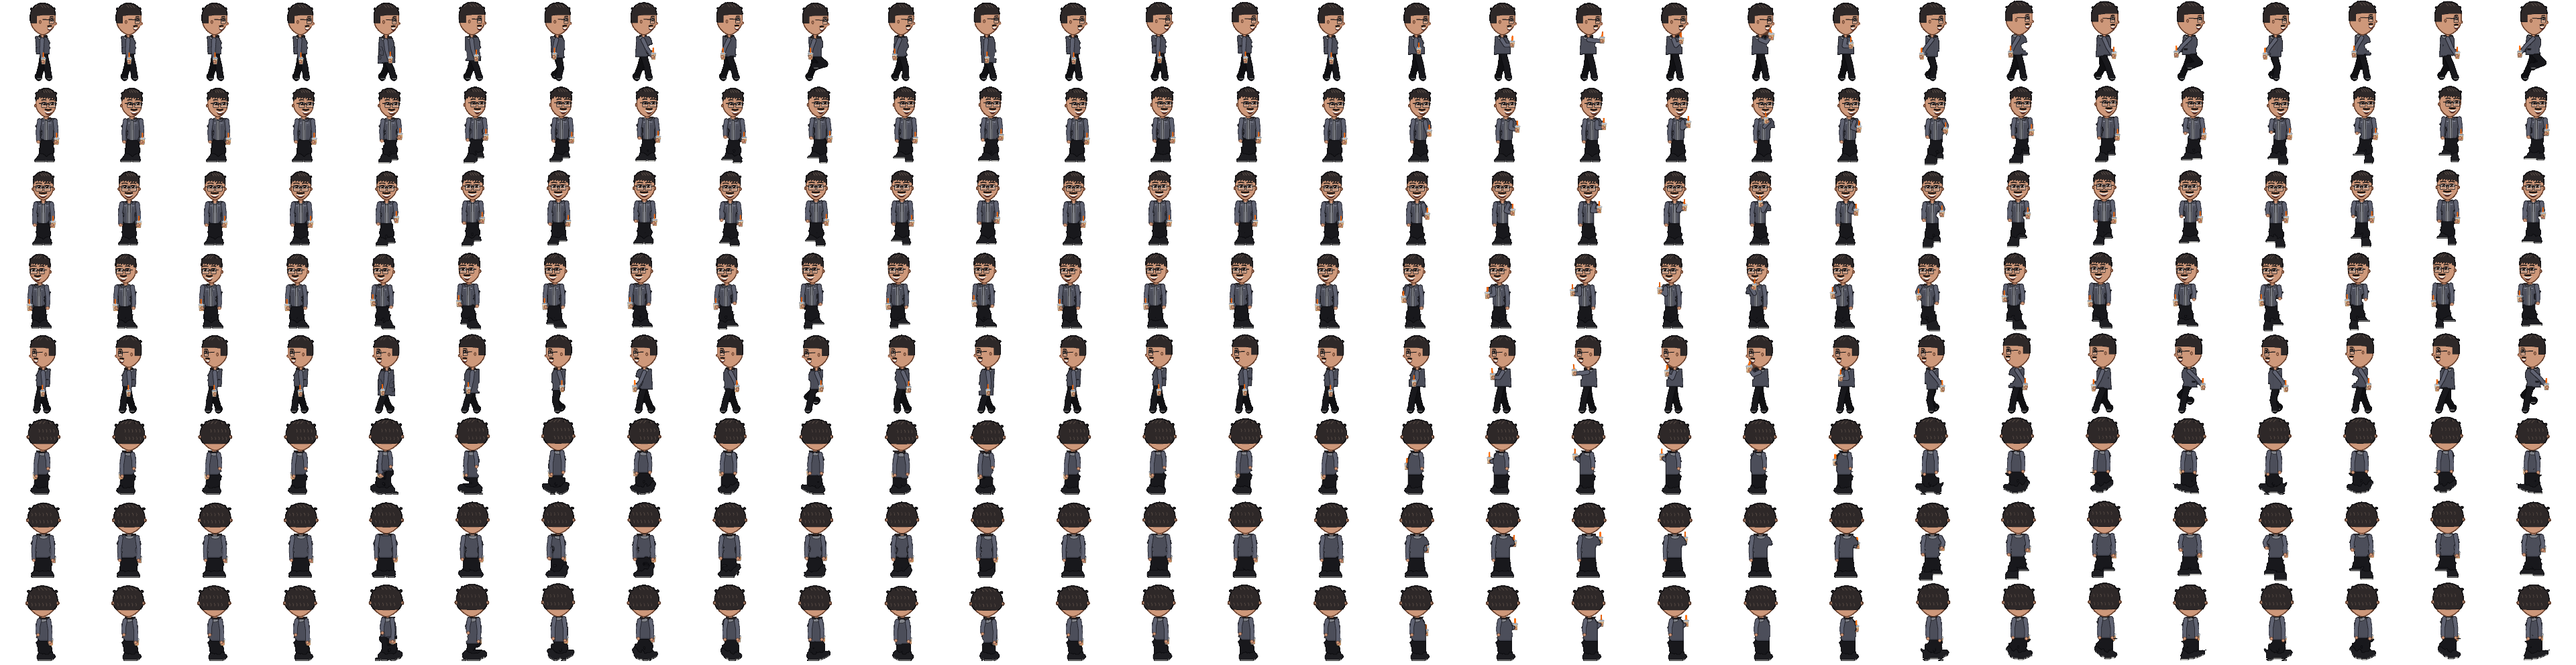
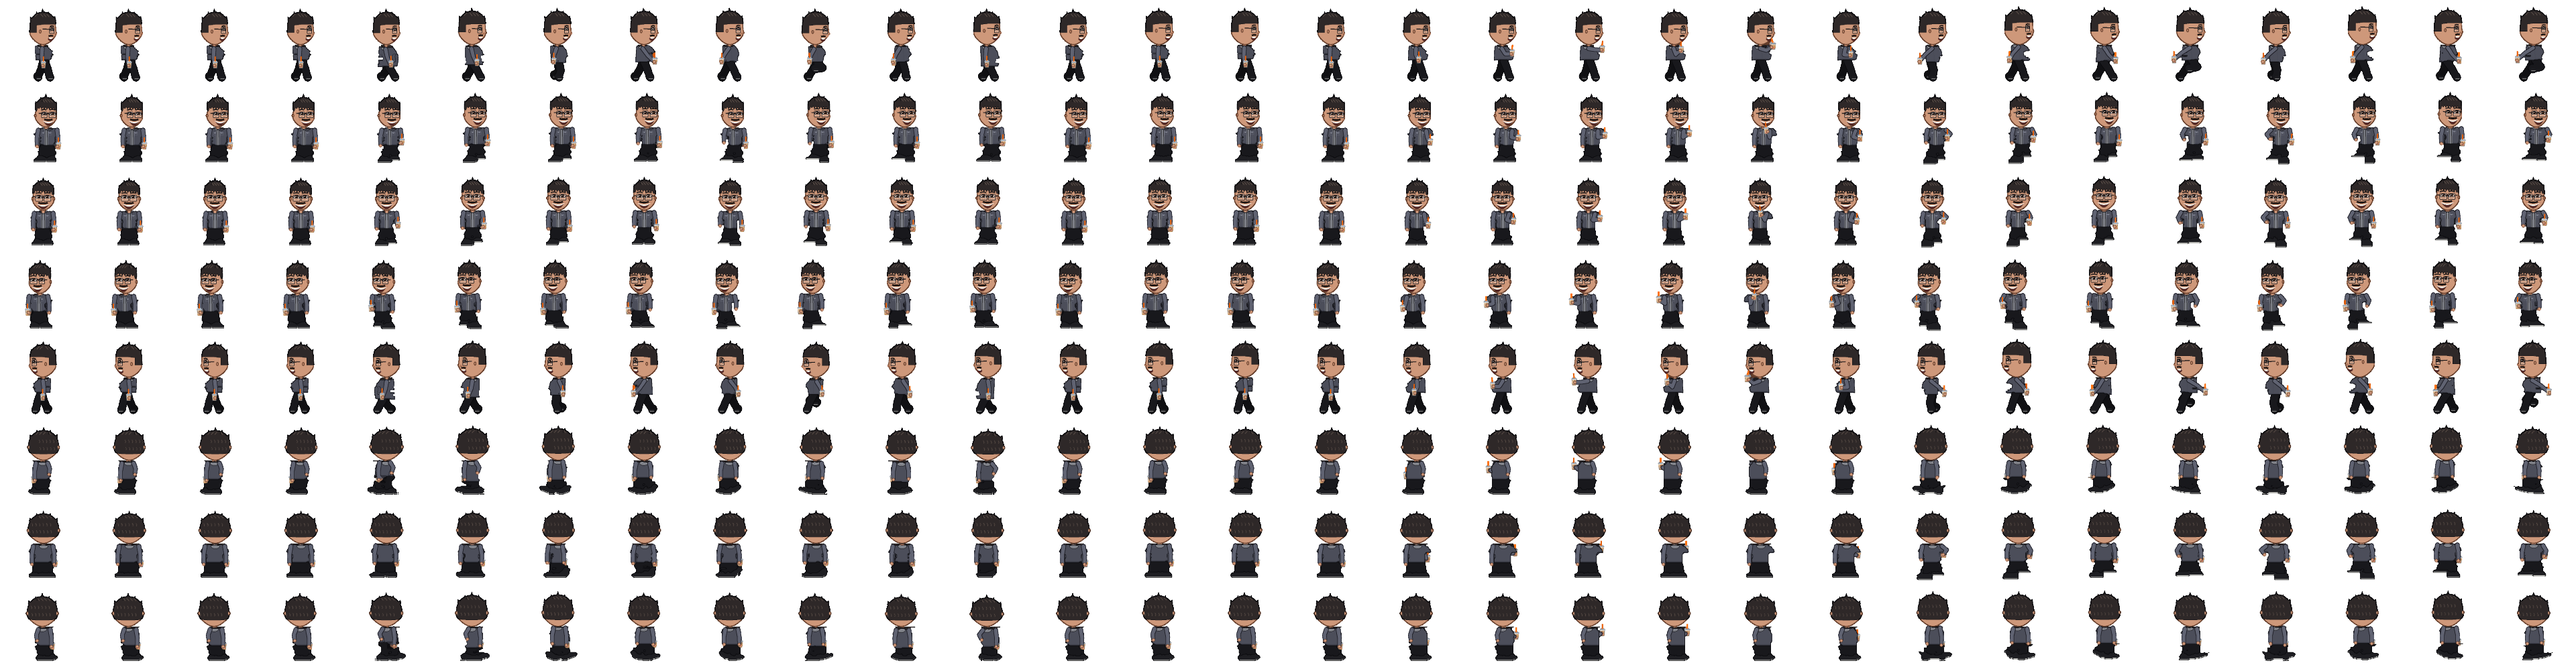
Billy: chibi proportions (head ~0.48 of height), chubby body, big smile, spiky hair; head-ratio check replaces taller-than-James

diff --git a/phaser-tag-client/tools/make_billy_skin.py b/phaser-tag-client/tools/make_billy_skin.py
@@ -47,16 +47,16 @@ ASSETS = HERE.parent / "public" / "assets"
 
 SS = 4
 OW, OH = 128, 124          # output frame
-HEAD_SCALE = 1.45
+HEAD_SCALE = 1.50
 ARM_R = 3.5
-BACK_D = 12.0
+BACK_D = 12.5
 TORSO_D = 15.0
 OBASE = 118                # feet line in the output frame
 SRC_BASE = 96              # feet line in kid.png
 SRC_CX = 40
 HS = 0.82                  # head scale
-BSY = 1.42                 # body: taller ...
-BSX = 1.2                  # ... and stocky
+BSY = 1.10                 # body: taller ...
+BSX = 1.4                  # ... and stocky
 
 FRONT = {"SE": 1, "S": 0, "SW": -1}
 PROFILE = {"E": 1, "W": -1}
@@ -319,6 +319,22 @@ def render_body(lab, wp, back_fx=0):
                     seg = ~union[y, sl] | (L[y, sl] == JACKET)
                     L[y, sl][seg] = JACKET
                     union[y, sl] = True
+            # chubby: a soft rounded belly out front, lower half of the jacket
+            Jf = L == JACKET
+            for y in range(y0, y1):
+                tt = (y - y0) / max(1, (y1 - y0))
+                bul = 2.6 * SS * max(0.0, math.sin(math.pi * min(1.0, max(0.0, (tt - 0.2) / 0.85))))
+                if bul < 1 or not Jf[y].any():
+                    continue
+                jx_ = xs_[Jf[y]]
+                f_ = jx_.max() if back_fx > 0 else jx_.min()
+                if back_fx > 0:
+                    sl = slice(f_ + 1, int(f_ + 1 + bul))
+                else:
+                    sl = slice(max(0, int(f_ - bul)), f_)
+                seg = ~union[y, sl]
+                L[y, sl][seg] = JACKET
+                union[y, sl] = True
             cps = components8(union)
             if cps:
                 big_ = max(cps, key=lambda c_: c_.sum())
@@ -385,7 +401,9 @@ def rebuild_head(L, rgb, union, direction, wp, eyes_o):
     fx = FACE[direction][0]
     # jaw a touch narrower than the cranium
     t = np.clip((Yo - cy) / hh, 0, 1)
-    Xs = cx + (Xo - cx) / (1 - 0.3 * t * t)
+    # chubby cheeks: barely narrower jaw plus a soft bulge at cheek height
+    bulge = np.exp(-(((Yo - (cy + 0.38 * hh)) / (0.32 * hh)) ** 2))
+    Xs = cx + (Xo - cx) / ((1 - 0.16 * t * t) * (1 + 0.07 * bulge))
     sdf = _rbox_sdf(Xs, Yo, cx, cy, hw, hh, hw * 0.96)
     head = sdf < 0
     # erase the old head
@@ -410,7 +428,7 @@ def rebuild_head(L, rgb, union, direction, wp, eyes_o):
     else:
         ey = np.mean([e[1] for e in eyes_o]) if eyes_o else top + 0.55 * (bot - top)
         ph_ = ((Xo - cx + 0.6 * fx) / 2.6) % 1
-        hl = ey - 8.3 + 0.8 * np.clip((Xo - (cx - 0.3 * hw)) / hw, -1, 1) + 1.8 * (1 - ph_) ** 1.6
+        hl = ey - 8.3 + 0.8 * np.clip((Xo - (cx - 0.3 * hw)) / hw, -1, 1) + 2.4 * (1 - np.abs(2 * ph_ - 1))
         edge = np.clip((np.abs(Xo - (cx + fx * 0.8)) / hw - 0.74) / 0.26, 0, 1)
         hair = hair_cap & (Yo < hl + 3.4 * edge)
         ears = [(cx - hw - 0.1, ey + 0.8), (cx + hw + 0.1, ey + 0.8)]
@@ -418,12 +436,19 @@ def rebuild_head(L, rgb, union, direction, wp, eyes_o):
             ears = [ears[0] if fx > 0 else ears[1]]  # the far ear is hidden in 3/4
     # messy tufts sticking up along the crown (a fixed pattern per view)
     rng = np.random.RandomState(7 + len(direction) * 3 + (fx > 0))
-    tuft = np.zeros_like(head)
-    for i in range(7):
-        tx = cx + (i - 3) * hw * 0.3 + rng.uniform(-0.4, 0.4)
-        ty = top + 0.25 + 0.9 * ((i - 3) / 3.0) ** 2 * hh * 0.35
-        rx_, ry_ = rng.uniform(1.3, 1.9), rng.uniform(1.1, 1.6)
-        tuft |= ((Xo - tx) / rx_) ** 2 + ((Yo - ty) / ry_) ** 2 < 1
+    # a few clean, pointed (almost anime) spikes along the crown
+    sp_im = Image.new("L", (W, H), 0)
+    sp_d = ImageDraw.Draw(sp_im)
+    for i in range(5):
+        u = (i - 2) / 2.0
+        bx_ = cx + u * hw * 0.78 + rng.uniform(-0.2, 0.2)
+        by_ = top + 2.4 + 2.6 * u * u * hh / 10
+        ln = 6.6 - 2.0 * abs(u) + rng.uniform(-0.3, 0.3)
+        tipx = bx_ + u * 2.2 + (0.6 if direction in PROFILE and fx < 0 else -0.6 if direction in PROFILE else 0)
+        tipy = by_ - ln * (1 - 0.35 * abs(u))
+        bw_ = 2.7
+        sp_d.polygon([(S(bx_ - bw_), S(by_ + 1.0)), (S(tipx), S(tipy)), (S(bx_ + bw_), S(by_ + 1.0))], fill=255)
+    tuft = np.asarray(sp_im) > 127
     hair |= tuft & (Yo < top + hh * 0.7)
     ear = np.zeros_like(head)
     for ex_, ey_ in ears:
@@ -537,10 +562,10 @@ def leg_layer(hip, foot, fx, back, L_leg):
     toe = (foot[0] + fx * 2.5, foot[1] - 1.5)
     heel = (foot[0] - fx * 1.4, foot[1] - 1.7)
     parts = [
-        (capsule_fn(hip, 5.0, knee, 4.8), pc),
-        (capsule_fn(knee, 4.8, ankle, 4.7), pc),
+        (capsule_fn(hip, 6.0, knee, 5.8), pc),
+        (capsule_fn(knee, 5.8, ankle, 5.6), pc),
         # loose hem bunched over the sneaker
-        (capsule_fn((ankle[0] - fx * 0.4, ankle[1] - 1.6), 5.1, (ankle[0] + fx * 0.6, ankle[1] + 0.2), 5.0), pc),
+        (capsule_fn((ankle[0] - fx * 0.4, ankle[1] - 1.6), 6.0, (ankle[0] + fx * 0.6, ankle[1] + 0.2), 5.8), pc),
         (capsule_fn(heel, 1.75, toe, 1.55), COL[SHOE]),
     ]
     im = shapes_layer((OH, OW), parts, LINE, 0.75)
@@ -661,7 +686,7 @@ def draw_face(img, L, direction, eyes_o, wp, head_box):
         my = ey + 7.2
         # full rounded cheeks: soft flat shade
         for ex, hw in ((lx, hw_l), (rx, hw_r)):
-            ell(d, ex + (ex - mid) * 0.15, ey + 4.4, hw * 0.55, 1.1, CHEEK)
+            ell(d, ex + (ex - mid) * 0.2, ey + 4.6, hw * 0.72, 1.5, CHEEK)
         # broad nose
         ell(d, mx, ey + 3.9, 1.5, 1.0, SKIN_SHADE)
         ell(d, mx, ey + 3.3, 0.8, 0.6, COL[SKIN])
@@ -683,11 +708,11 @@ def draw_face(img, L, direction, eyes_o, wp, head_box):
         tline(d, [(lx - hw_l, ey - 1.2), (max(x0 + 0.4, lx - hw_l - 2.4), ey - 1.5)], GLASS, 1.1)
         tline(d, [(rx + hw_r, ey - 1.2), (min(x1 - 0.4, rx + hw_r + 2.4), ey - 1.5)], GLASS, 1.1)
         # wide toothy smile
-        mw = 5.0 if fx == 0 else 4.3
+        mw = 5.8 if fx == 0 else 5.0
         def curve(y_end, y_mid, n=9):
             return [(mx + mw * t, my + y_end + (y_mid - y_end) * (1 - t * t)) for t in np.linspace(-1, 1, n)]
-        top_c = curve(-1.2, 0.0)
-        bot_c = curve(-1.2, 3.0)
+        top_c = curve(-1.4, 0.0)
+        bot_c = curve(-1.4, 3.7)
         mid_c = curve(-1.0, 1.3)
         d.polygon([(S(x), S(y)) for x, y in top_c + bot_c[::-1]], fill=MOUTH)
         d.polygon([(S(x), S(y)) for x, y in top_c + mid_c[::-1]], fill=TEETH)
@@ -707,7 +732,7 @@ def draw_face(img, L, direction, eyes_o, wp, head_box):
     front = ((row.max() if fx > 0 else row.min()) / SS) if len(row) else ex + fx * 4
     mx = front - fx * 1.7
     # cheek and nose shade
-    ell(d, ex - fx * 0.6, ey + 4.2, 2.0, 1.5, CHEEK)
+    ell(d, ex - fx * 0.6, ey + 4.4, 2.5, 1.9, CHEEK)
     ell(d, ex + fx * 2.6, ey + 3.3, 1.2, 0.9, SKIN_SHADE)
     ell(d, ex + fx * 2.4, ey + 3.7, 0.35, 0.28, SKIN_LINE)
     lx0, lx1 = sorted((ex - fx * 1.6, ex + fx * 1.4))
@@ -721,8 +746,8 @@ def draw_face(img, L, direction, eyes_o, wp, head_box):
     # glasses arm back to the ear
     tline(d, [(ex - fx * 1.6, ey - 1.0), (wp.hcx_o + fx * 0.2, ey - 1.5)], GLASS, 0.9)
     # smile, mustache, chin patch
-    a0, a1 = sorted((mx + fx * 0.2, mx - fx * 4.0))
-    d.chord([S(a0), S(my - 1.4), S(a1), S(my + 2.6)], 0, 180, fill=MOUTH)
+    a0, a1 = sorted((mx + fx * 0.2, mx - fx * 4.6))
+    d.chord([S(a0), S(my - 1.4), S(a1), S(my + 3.2)], 0, 180, fill=MOUTH)
     d.chord([S(a0 + 0.3), S(my - 1.3), S(a1 - 0.2), S(my + 1.2)], 0, 180, fill=TEETH)
     # upturned smile corner at the cheek
     tline(d, [(mx - fx * 3.6, my + 0.6), (mx - fx * 4.3, my - 0.4)], SKIN_LINE, 0.45)
@@ -1092,7 +1117,7 @@ def billyfy(src_f, direction, anim, col, meta, memo, wp, idle_f):
     cyb = hy.max()
     ax = float(np.median(hx[hy >= cyb - 2 * SS]))
     ay = float(cyb)
-    k_ = HEAD_SCALE
+    k_ = HEAD_SCALE * (0.94 if direction in BACK else 1.0)
     big = Image.fromarray(hl_, "RGBA").transform(
         body.size, Image.AFFINE, (1 / k_, 0, ax - ax / k_, 0, 1 / k_, ay - ay / k_), resample=Image.NEAREST)
     body = Image.alpha_composite(body, big)

diff --git a/phaser-tag-client/tools/check_billy_consistency.py b/phaser-tag-client/tools/check_billy_consistency.py
@@ -1,7 +1,8 @@
 """Billy consistency: sheet fits one texture; every frame is one solid figure
-(alpha>=200, specks <6 px ignored) that is taller than kid James; the torso
-is 1.05-1.33x James's width in each direction (stocky, never skinny
-or ballooning); and the iced coffee (orange straw or the clear lid/ice) is in every frame."""
+(alpha>=200, specks <6 px ignored); head/height ~0.47 like James (chibi); the torso
+is 1.05-1.55x James's width in each direction (chubby, never skinny
+or ballooning); and the iced coffee (orange straw or the clear lid/ice) is in every frame.
+Head/height matches James's chibi ratio (~0.47) instead of a taller-than-James rule."""
 import json
 from pathlib import Path
 
@@ -27,6 +28,7 @@ def torso_w(f, rows):
 
 
 ratios = {}
+hrs = {}
 
 
 def nocup(f):
@@ -49,15 +51,25 @@ for r, d in enumerate(m["directions"]):
             print(f"{d} col {c}: {len(comps)} pieces"); bad += 1
         hb = np.ptp(np.nonzero((b[..., 3] > 0).any(1))[0])
         hf = np.ptp(np.nonzero(a.any(1))[0])
-        if hf <= hb + 4:
-            print(f"{d} col {c}: not taller than James ({hf} vs {hb})"); bad += 1
+        # chibi proportions like James: head (top to the neck, the narrowest
+        # row in the middle band) is 0.46-0.48 of the height in the standing
+        # frames (0.45-0.51 tolerance for the per-frame pixel rounding)
+        if c < 4 or 12 <= c < 16:
+            ys_ = np.nonzero(a.any(1))[0]
+            t_, b_ = ys_.min(), ys_.max()
+            w_ = {y: a[y].sum() for y in ys_}
+            nk = min(range(int(t_ + .3 * (b_ - t_)), int(t_ + .6 * (b_ - t_))), key=lambda y: w_.get(y, 999))
+            hr = (nk - t_) / (b_ - t_)
+            hrs.setdefault(d, []).append(hr)
+            if not 0.45 <= hr <= 0.51:
+                print(f"{d} col {c}: head ratio {hr:.2f}"); bad += 1
         # upper torso band (James rows 54..60), cup pixels excluded; the
         # tag arm reaches out, so only the standing frames are measured
         if c < 4 or 12 <= c < 16:
-            rows = [int(round(118 - (96 - y) * 1.42)) for y in range(54, 61)]
+            rows = [int(round(118 - (96 - y) * 1.10)) for y in range(54, 61)]
             ratio = torso_w(nocup(f), rows) / torso_w(b, range(54, 61))
             ratios.setdefault(d, []).append(ratio)
-            if not 1.05 <= ratio <= 1.33:
+            if not 1.05 <= ratio <= 1.55:
                 print(f"{d} col {c}: torso width ratio {ratio:.2f}"); bad += 1
         rgb = f[..., :3]
         straw = (rgb[..., 0] > 150) & (rgb[..., 0] - rgb[..., 1] > 60) & (rgb[..., 1] - rgb[..., 2] > 25) & (f[..., 3] > 100)
@@ -65,5 +77,9 @@ for r, d in enumerate(m["directions"]):
         if straw.sum() < 1 and lid.sum() < 3 and d not in ("N", "NE", "NW"):  # held behind him from the back
             print(f"{d} col {c}: no iced coffee"); bad += 1
 print({d: round(float(np.median(v)), 2) for d, v in ratios.items()})
+print("head ratio", {d: round(float(np.median(v)), 3) for d, v in hrs.items()})
+for d, v in hrs.items():
+    if not 0.46 <= float(np.median(v)) <= 0.495:
+        print(f"{d}: median head ratio {np.median(v):.3f}"); bad += 1
 print("billy consistency: problems =", bad)
 raise SystemExit(1 if bad else 0)

diff --git a/phaser-tag-client/tools/check_billy_solid.py b/phaser-tag-client/tools/check_billy_solid.py
@@ -30,7 +30,10 @@ for r in range(im.shape[0] // fh):
             neck = min(range(int(t + 0.25 * h), int(t + 0.5 * h)), key=lambda y: wid.get(y, 999))
             back = {y: (np.nonzero(a[y])[0].min() if r == 0 else -np.nonzero(a[y])[0].max())
                     for y in range(neck + 4, neck + 12) if a[y].any()}
-            ref = min(back.values())
+            # inward = further from the back than the line just below the
+            # neck; an arm swinging out behind the back is not a notch
+            ys_ = sorted(back)
+            ref = min(back[y] for y in ys_[:3])
             worst = max(back.values()) - ref
             if worst >= 2:
                 print(f"row {r} col {c}: upper-back notch {worst} px")
